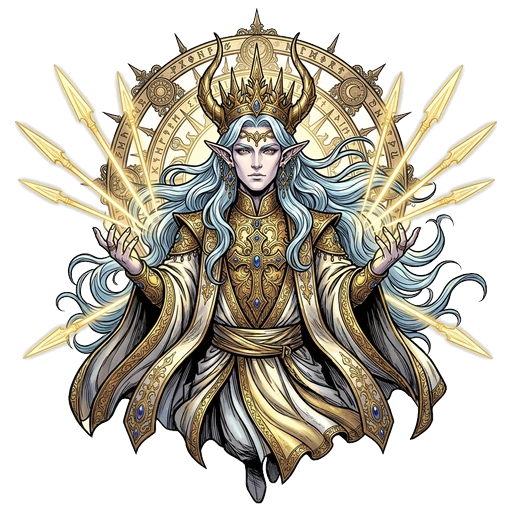
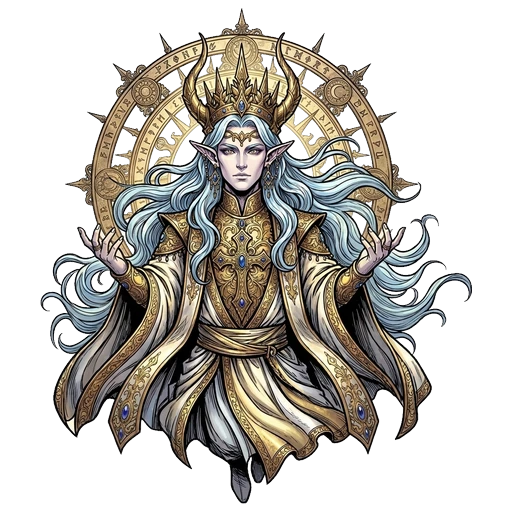
art(cards): remove background spears from Aelion (gold_178) and refine halo cutout

diff --git a/src/data/cardArtPrompts.ts b/src/data/cardArtPrompts.ts
@@ -1050,7 +1050,7 @@ export const CARD_ART_PROMPTS: Record<string, string> = {
   "neutral_174_convergencia_prisma_real": "2D Dark Fantasy gothic baroque cel-shaded ink illustration, colossal platinum-and-obsidian Sovereign Crown Astrolabe centered on a blinding hyper-faceted diamond core, refracting five cataclysmic elemental torrents—crimson meteor fire, electric-cyan frost lightning, violet abyssal lances, emerald briar vines, and solar-gold spears—shattering space on pure white background.",
   "gold_176_arauto_louros_alvorada": "2D Dark Fantasy gothic baroque cel-shaded ink illustration, regal icy-white-haired Solar Elf archer crowned with golden laurel wreath, white silk robes with gilded filigree chestplate, drawing a radiant golden war-bow nocked with a arrow of condensed dawnlight amidst floating golden laurel leaves on pure white background.",
   "gold_177_lanca_cantora_coro_solar": "2D Dark Fantasy gothic baroque cel-shaded ink illustration, luminous pale-cyan-haired High Elven spear-cantor with horned golden crown and white-and-gold ceremonial vestments, wielding a double-bladed golden light-glaive encircled by floating solar shield-runes on pure white background.",
-  "gold_178_aelion_hierofante_coroa_aurea": "2D Dark Fantasy gothic baroque cel-shaded ink illustration, monumental Solar High Elf Hierophant Aelion with cascading icy-silver hair, tall horned golden laurel crown, white-and-gold arch-vestments, levitating before a baroque golden sun-halo mandala with eight radiant spears of dawnlight on pure white background.",
+  "gold_178_aelion_hierofante_coroa_aurea": "2D Dark Fantasy gothic baroque cel-shaded ink illustration, monumental Solar High Elf Hierophant Aelion with cascading icy-silver hair, tall horned golden laurel crown, white-and-gold arch-vestments, levitating with open hands before a baroque golden sun-halo mandala on pure white background.",
   "purple_176_tecela_lagrimas_negras": "2D Dark Fantasy gothic baroque cel-shaded ink illustration, eerie pale-white-haired Abyssal Elf weaver with pitch-black eyes weeping liquid gold tears, black-and-violet kimono-gothic robes with gold laurel trim, drawing taut obsidian-and-starlight threads from black-lacquered claws amidst dark-star astrolabes on pure white background.",
   "purple_177_inquisidor_obsidiana_astral": "2D Dark Fantasy gothic baroque cel-shaded ink illustration, lethal pale-haired Astral-Abyssal Elf inquisitor archer with pitch-black void eyes and golden tear-fractures, black-iron and violet armor with starry eclipse rings, aiming a crescent recurve bow of black star-obsidian nocked with a violet void arrow on pure white background.",
   "purple_178_vaelen_oraculo_choro_dourado": "2D Dark Fantasy gothic baroque cel-shaded ink illustration, transcendent Abyssal High Elf Oracle Vaelen with braided white hair, pitch-black void eyes weeping molten gold across his bridge, black-and-purple imperial robes, black-clawed hands ringed in gold, framed by interlocking golden eclipse astrolabes filled with starry black void on pure white background.",

diff --git a/src/components/CardView.tsx b/src/components/CardView.tsx
@@ -494,7 +494,7 @@ export const CardView: React.FC<CardViewProps> = ({
           <div className={`cpa-token-art aura-${displayCard.domain}`}>
             {!imgError && displayCard.imagePath ? (
               <img
-                src={`${displayCard.imagePath}?v=57`}
+                src={`${displayCard.imagePath}?v=58`}
                 alt={displayName}
                 className="cpa-token-img"
                 onError={() => setImgError(true)}
@@ -665,7 +665,7 @@ export const CardView: React.FC<CardViewProps> = ({
 
           {!imgError && displayCard.imagePath ? (
             <img
-              src={`${displayCard.imagePath}?v=57`}
+              src={`${displayCard.imagePath}?v=58`}
               alt={displayName}
               className="card-cutout-img"
               onError={() => setImgError(true)}

diff --git a/public/sw.js b/public/sw.js
@@ -1,4 +1,4 @@
-const CACHE_VERSION = 'chromatic-pact-v70';
+const CACHE_VERSION = 'chromatic-pact-v71';
 const ASSET_CACHE = `${CACHE_VERSION}-assets`;
 
 const PRECACHE_URLS = [
